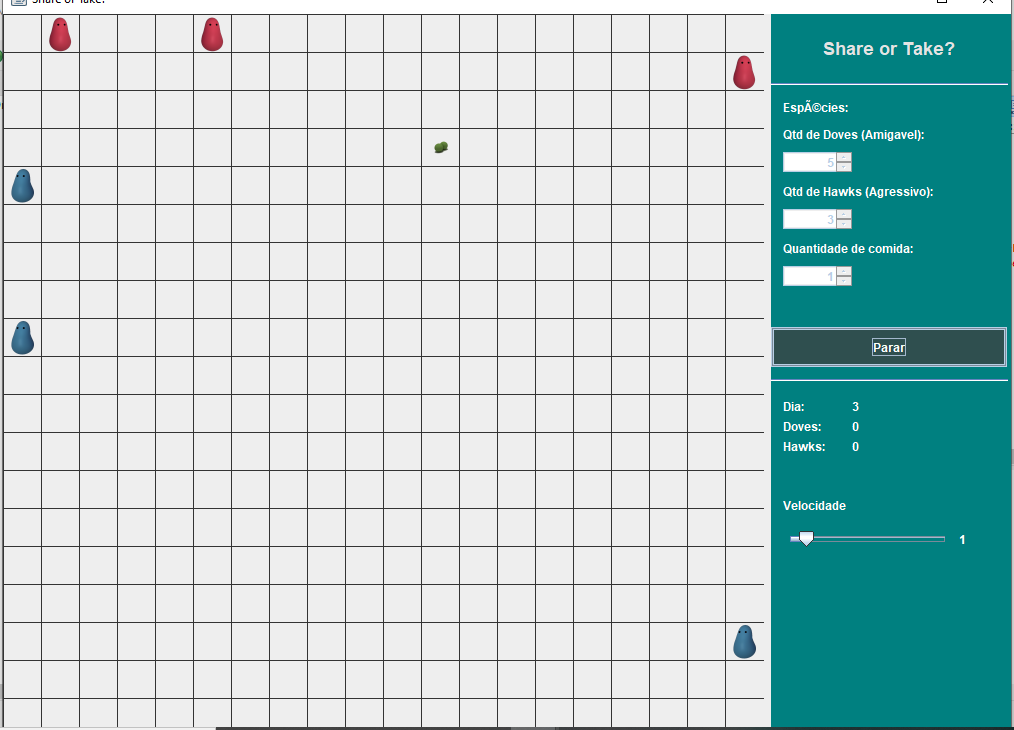
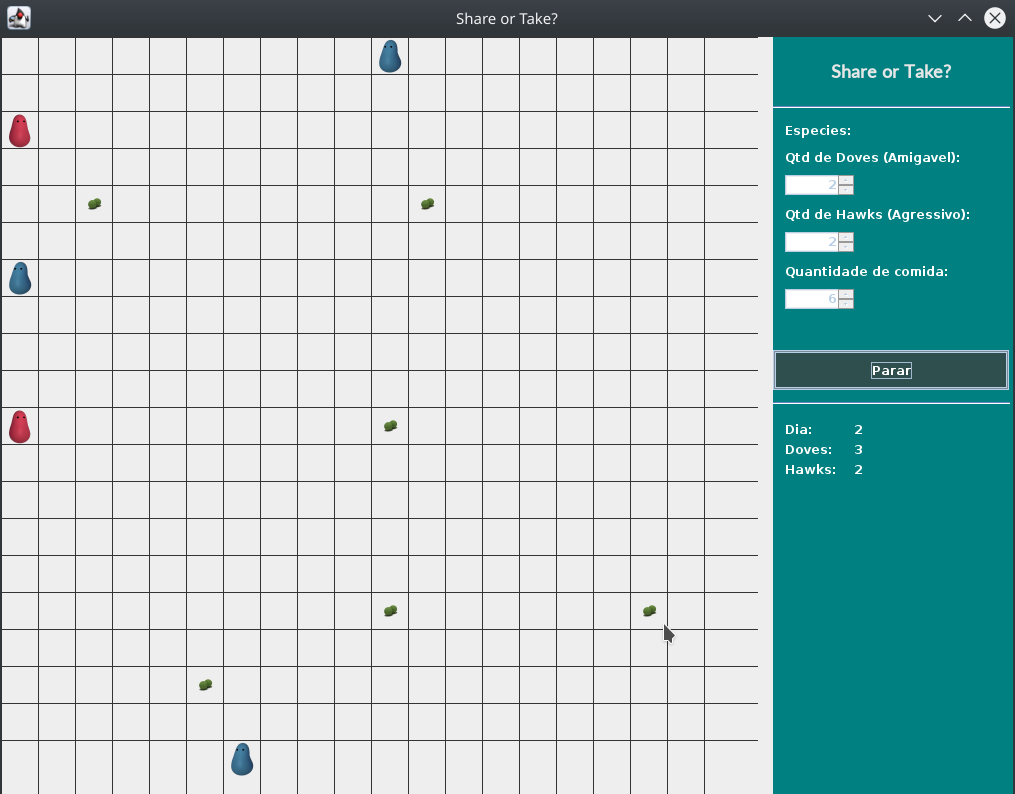
Last modifications

Changed region(s): [[0.0, 0.0, 1.0, 1.0]]

diff --git a/src/graphics/ControllerMenu.java b/src/graphics/ControllerMenu.java
@@ -28,8 +28,6 @@ public class ControllerMenu extends JPanel {
 
 	JLabel lblTitle = new JLabel("Share or Take?");
 	JButton btnStart = new JButton("Iniciar");
-	JLabel lblVelocity = new JLabel("Velocidade");
-	JLabel lblSliderVelocity = new JLabel();
 	JLabel lblSpecies = new JLabel("Especies:");
 	JLabel lblDovesAmount = new JLabel("Qtd de Doves (Amigavel):");
 	JSpinner spinnerDovesAmount = new JSpinner();
@@ -43,8 +41,6 @@ public class ControllerMenu extends JPanel {
 	JLabel lblDoves = new JLabel("Doves:");
 	JLabel lblHawks = new JLabel("Hawks:");
 	JLabel lblHawksCount = new JLabel("0");
-	JPanel panelSliderVelocity = new JPanel();
-	JSlider sliderVelocity = new JSlider();
 	JPanel panelSliderEnd = new JPanel();
 	JLabel lblEnd = new JLabel("FIM");
 	JLabel lblRestart = new JLabel("Reinicie a simulacao");
@@ -150,33 +146,6 @@ public class ControllerMenu extends JPanel {
 		lblHawksCount.setFont(new Font("Dialog", Font.BOLD, 12));
 		lblHawksCount.setBounds(81, 52, 57, 15);
 		panelSliderDays.add(lblHawksCount);
-
-		panelSliderVelocity.setBackground(new Color(0, 128, 128));
-		panelSliderVelocity.setBounds(0, 465, 237, 80);
-		panelSliderVelocity.setLayout(null);
-		add(panelSliderVelocity);
-
-		lblVelocity.setForeground(new Color(255, 255, 255));
-		lblVelocity.setBounds(12, 12, 213, 28);
-		panelSliderVelocity.add(lblVelocity);
-
-		sliderVelocity.setBounds(12, 52, 170, 16);
-		panelSliderVelocity.add(sliderVelocity);
-		sliderVelocity.setForeground(new Color(255, 255, 255));
-		sliderVelocity.setBackground(new Color(0, 128, 128));
-		sliderVelocity.setValue(1);
-		sliderVelocity.setMaximum(10);
-		sliderVelocity.setEnabled(false);
-		sliderVelocity.addChangeListener(new javax.swing.event.ChangeListener() {
-			public void stateChanged(ChangeEvent e) {
-				velocityChanged();
-			}
-		});
-
-		lblSliderVelocity.setForeground(new Color(255, 255, 255));
-		lblSliderVelocity.setBounds(188, 52, 37, 16);
-		lblSliderVelocity.setText(Integer.toString(sliderVelocity.getValue()));
-		panelSliderVelocity.add(lblSliderVelocity);
 		lblSpecies.setForeground(new Color(255, 255, 255));
 		lblSpecies.setBounds(12, 86, 212, 15);
 		add(lblSpecies);
@@ -206,10 +175,6 @@ public class ControllerMenu extends JPanel {
 		lblDovesCount.setText(environment.dovesCount.toString());
 		lblHawksCount.setText(environment.hawksCount.toString());
 		componentsState(environment.running);
-	}
-
-	void velocityChanged() {
-		lblSliderVelocity.setText(Integer.toString(sliderVelocity.getValue()));
 	}
 
 	// Adiciona behaviour para iniciar a simulacao
@@ -256,14 +221,8 @@ public class ControllerMenu extends JPanel {
 		spinnerDovesAmount.setEnabled(!starting);
 		spinnerHawksAmount.setEnabled(!starting);
 		spinnerFoodAmount.setEnabled(!starting);
-		handleSliderVelocity(starting);
 		btnStart.setText(starting ? "Parar" : "Iniciar");
 		panelSliderEnd.setVisible(alreadyStarted && !starting);
 		this.simulationRunning = starting;
-	}
-
-	private void handleSliderVelocity(boolean active) {
-		sliderVelocity.setEnabled(active);
-		sliderVelocity.setValue(!active ? 1 : sliderVelocity.getValue());
 	}
 }

diff --git a/src/simulation/environment/EnvironmentAgent.java b/src/simulation/environment/EnvironmentAgent.java
@@ -197,6 +197,7 @@ public class EnvironmentAgent extends Agent {
 		this.boardSize = boardSize;
 		this.maxOfBorderFreeSpaces = boardSize * 4 - 4;
 		this.foodAmount = foodAmount;
+		this.daysCount = 0;
 
 		System.out.println("---------- INICIANDO SIMULACAO ----------");
 		setUpFood(foodAmount);
@@ -213,6 +214,7 @@ public class EnvironmentAgent extends Agent {
 		sendBroadCast(ACLMessage.INFORM, DEAD);
 		incDayThread.interrupt();
 		mainWindow.clearBoard();
+		this.daysCount = 0;
 		this.running = false;
 	}
 
